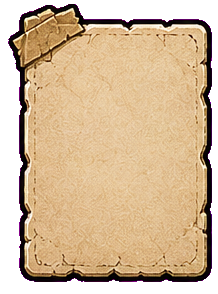
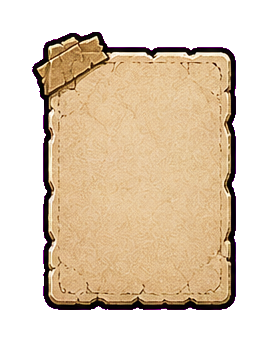
Pad parchment UI sprites

diff --git a/game.js b/game.js
@@ -40,7 +40,7 @@ paperKnight.src =
   location.hostname === "localhost" || location.hostname === "127.0.0.1"
     ? "https://raw.githubusercontent.com/kimguta/retro-orc-dungeon/main/assets/paper-knight.png?v=20260605-ink-1"
     : "assets/paper-knight.png?v=20260605-ink-1";
-const COMIC_SPRITE_VERSION = "20260610-ui-sprites-3";
+const COMIC_SPRITE_VERSION = "20260610-ui-sprites-4";
 const swordSprite = new Image();
 swordSprite.decoding = "async";
 swordSprite.src = `assets/sprite-player-sword.png?v=${COMIC_SPRITE_VERSION}`;
@@ -4142,7 +4142,7 @@ function drawBoardCard(x, y, w, h, options = {}) {
   const sprite = uiPanelSprite(w, h);
   if (sprite?.img?.complete && sprite.img.naturalWidth) {
     ctx.save();
-    const bleed = Math.max(12, Math.min(24, Math.min(w, h) * 0.12));
+    const bleed = Math.max(28, Math.min(62, Math.min(w, h) * 0.38));
     ctx.drawImage(sprite.img, Math.round(x - bleed), Math.round(y - bleed), Math.round(w + bleed * 2), Math.round(h + bleed * 2));
     if (options.dark) {
       ctx.fillStyle = "rgba(54, 27, 15, 0.28)";
@@ -4176,7 +4176,7 @@ function uiPanelSprite(w, h) {
 function drawToken(cx, cy, r, fill, label = "") {
   const sprite = tokenSprite(label, fill);
   if (sprite?.img?.complete && sprite.img.naturalWidth && r >= 12) {
-    const size = r * 2.7;
+    const size = r * 3.05;
     ctx.save();
     ctx.drawImage(sprite.img, Math.round(cx - size / 2), Math.round(cy - size / 2), Math.round(size), Math.round(size));
     ctx.restore();
@@ -4227,7 +4227,7 @@ function drawBoardBar(x, y, w, h, pct, fill, bg, label = "") {
     ctx.fillRect(Math.round(x + padX), Math.round(y + padY), Math.round((w - padX * 2) * clamped), Math.max(2, Math.round(h - padY * 2)));
     ctx.fillStyle = "rgba(255, 248, 220, 0.3)";
     ctx.fillRect(Math.round(x + padX), Math.round(y + padY), Math.round((w - padX * 2) * clamped), Math.max(2, Math.round((h - padY * 2) * 0.36)));
-    ctx.drawImage(sprite.img, Math.round(x - 10), Math.round(y - 9), Math.round(w + 20), Math.round(h + 18));
+    ctx.drawImage(sprite.img, Math.round(x - 16), Math.round(y - 13), Math.round(w + 32), Math.round(h + 26));
     if (label) {
       ctx.textAlign = "center";
       drawText(label, x + w / 2, y + h - 5, Math.max(12, Math.min(14, h - 2)), "#fff9df", { outline: true, weight: 900 });
@@ -4270,41 +4270,41 @@ function drawHud() {
     ctx.fillRect(0, 0, W, H);
   }
 
-  const hudH = 146;
+  const hudH = 192;
   const panelY = H - hudH;
 
   const gap = 28;
-  const leftW = Math.min(560, Math.max(430, W * 0.35));
-  const statW = 272;
-  const equipW = 350;
-  const bottomCardH = 102;
-  const bottomCardY = panelY + 20;
+  const leftW = Math.min(590, Math.max(450, W * 0.36));
+  const statW = 292;
+  const equipW = 374;
+  const bottomCardH = 116;
+  const bottomCardY = panelY + 16;
   const totalHudW = leftW + statW + equipW + gap * 2;
   const x1 = Math.max(24, Math.round((W - totalHudW) / 2));
   const x2 = x1 + leftW + gap;
   const x3 = Math.min(x2 + statW + gap, W - equipW - 18);
 
   drawBoardCard(x1, bottomCardY, leftW, bottomCardH, { tab: true });
-  drawToken(x1 + 31, bottomCardY + 32, 16, "#b94135", "HP");
-  drawBoardBar(x1 + 66, bottomCardY + 18, leftW - 86, 26, player.hp / player.maxHp, "#d83d36", "#2b0d0a", `${player.hp}/${player.maxHp}`);
-  drawToken(x1 + 31, bottomCardY + 72, 16, berserk ? "#c94124" : "#d58a2f", "분");
-  drawBoardBar(x1 + 66, bottomCardY + 58, leftW - 86, 24, player.rage / player.maxRage, berserk ? "#f05a25" : "#d88428", "#2a1408", `${Math.floor(player.rage)}/${player.maxRage}`);
+  drawToken(x1 + 34, bottomCardY + 37, 17, "#b94135", "HP");
+  drawBoardBar(x1 + 72, bottomCardY + 22, leftW - 96, 28, player.hp / player.maxHp, "#d83d36", "#2b0d0a", `${player.hp}/${player.maxHp}`);
+  drawToken(x1 + 34, bottomCardY + 82, 17, berserk ? "#c94124" : "#d58a2f", "분");
+  drawBoardBar(x1 + 72, bottomCardY + 67, leftW - 96, 26, player.rage / player.maxRage, berserk ? "#f05a25" : "#d88428", "#2a1408", `${Math.floor(player.rage)}/${player.maxRage}`);
 
   drawBoardCard(x2, bottomCardY, statW, bottomCardH, { tab: true });
-  drawText(`Lv. ${player.level}`, x2 + 22, bottomCardY + 33, 18, "#22140c", { weight: 900 });
-  drawText(`처치 ${kills}`, x2 + 148, bottomCardY + 33, 14, "#4d2b16", { weight: 900 });
-  drawText("경험치", x2 + 22, bottomCardY + 77, 13, "#17394a", { weight: 900 });
-  drawBoardBar(x2 + 76, bottomCardY + 61, statW - 104, 20, player.xp / player.nextXp, "#5ea9d3", "#101a20", `${compactNumber(player.xp)}/${compactNumber(player.nextXp)}`);
+  drawText(`Lv. ${player.level}`, x2 + 25, bottomCardY + 38, 18, "#22140c", { weight: 900 });
+  drawText(`처치 ${kills}`, x2 + 158, bottomCardY + 38, 14, "#4d2b16", { weight: 900 });
+  drawText("경험치", x2 + 25, bottomCardY + 86, 13, "#17394a", { weight: 900 });
+  drawBoardBar(x2 + 82, bottomCardY + 69, statW - 114, 22, player.xp / player.nextXp, "#5ea9d3", "#101a20", `${compactNumber(player.xp)}/${compactNumber(player.nextXp)}`);
 
   drawBoardCard(x3, bottomCardY, equipW, bottomCardH, { tab: true });
-  drawText(swordName(), x3 + 22, bottomCardY + 33, 16, "#22140c", { weight: 900 });
-  drawText(armorName(), x3 + 190, bottomCardY + 33, 16, "#17394a", { weight: 900 });
+  drawText(swordName(), x3 + 25, bottomCardY + 38, 16, "#22140c", { weight: 900 });
+  drawText(armorName(), x3 + 202, bottomCardY + 38, 16, "#17394a", { weight: 900 });
   const actionText = berserk
     ? "광폭화: 특수공격 무제한"
     : player.rage >= SPECIAL_RAGE_COST
       ? "우클릭 특수공격 준비"
       : `특수공격 분노 ${SPECIAL_RAGE_COST}`;
-  drawText(actionText, x3 + 22, bottomCardY + 77, 13, berserk ? "#8f2418" : "#5f3419", { weight: 900 });
+  drawText(actionText, x3 + 25, bottomCardY + 86, 13, berserk ? "#8f2418" : "#5f3419", { weight: 900 });
 
   drawObjectivePanel();
   drawParticipantRoster(W - 252, 216, 214);

diff --git a/index.html b/index.html
@@ -31,6 +31,6 @@
       </form>
     </main>
     <script src="https://cdn.socket.io/4.8.3/socket.io.min.js"></script>
-    <script src="game.js?v=20260610-ui-sprites-3"></script>
+    <script src="game.js?v=20260610-ui-sprites-4"></script>
   </body>
 </html>
